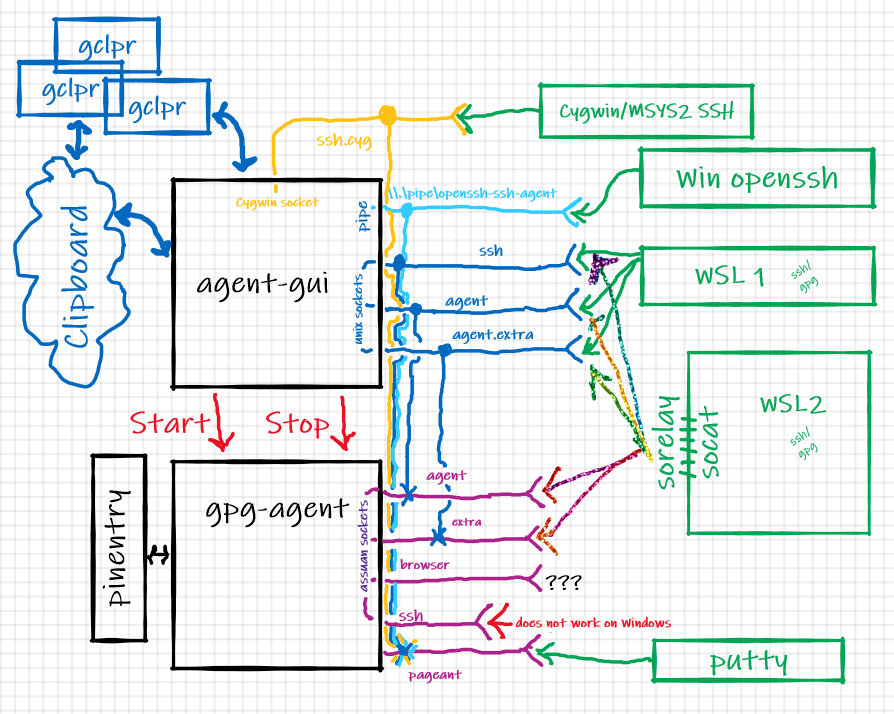
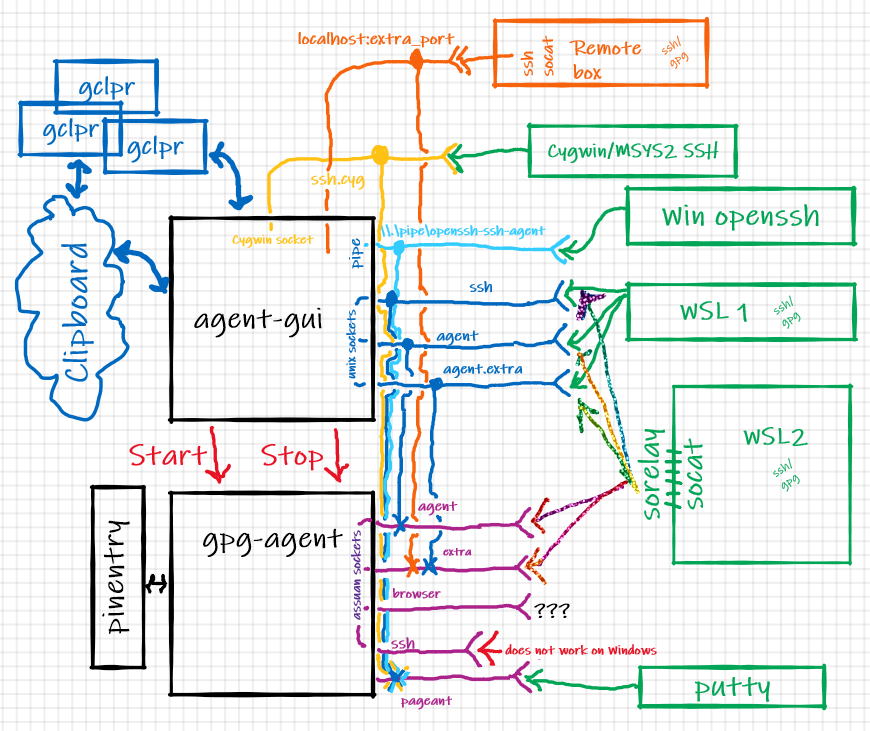
Adding extra_port to support gpg socket redirection from Windows

Changed region(s): [[0.0, 0.0, 0.9931, 0.986]]

diff --git a/agent/agent.go b/agent/agent.go
@@ -64,6 +64,10 @@ func NewAgent(cfg *config.Config) (*Agent, error) {
 	a.conns[ConnectorSockAgentSSH] = NewConnector(ConnectorSockAgentSSH, a.Cfg.GPG.Home, a.Cfg.GUI.Home, util.SocketAgentSSHName, locked, &a.wg)
 	a.conns[ConnectorPipeSSH] = NewConnector(ConnectorPipeSSH, "", "", a.Cfg.GUI.PipeName, locked, &a.wg)
 	a.conns[ConnectorSockAgentCygwinSSH] = NewConnector(ConnectorSockAgentCygwinSSH, "", a.Cfg.GUI.Home, util.SocketAgentSSHCygwinName, locked, &a.wg)
+	if a.Cfg.GUI.ExtraPort != 0 {
+		// Since OpenSSH-Win32 does not yet know how to redirect unix sockets we have no choice but to make available this additional port on local host only
+		a.conns[ConnectorExtraPort] = NewConnector(ConnectorExtraPort, a.Cfg.GPG.Home, fmt.Sprintf("localhost:%d", a.Cfg.GUI.ExtraPort), util.SocketAgentExtraName, locked, &a.wg)
+	}
 
 	util.WaitForFileDeparture(time.Second*5,
 		a.conns[ConnectorSockAgent].PathGPG(),
@@ -83,6 +87,9 @@ func (a *Agent) Status() string {
 	fmt.Fprintf(&buf, "\n\n---------------------------\nGnuPG version:\n---------------------------\n%s", a.Ver)
 	fmt.Fprintf(&buf, "\n\n---------------------------\ngpg-agent command line:\n---------------------------\n%s", a.cmd.String())
 	fmt.Fprintf(&buf, "\n\n---------------------------\ngpg-agent Assuan sockets directory:\n---------------------------\n%s", a.Cfg.GPG.Home)
+	if a.Cfg.GUI.ExtraPort != 0 {
+		fmt.Fprintf(&buf, "\n\n---------------------------\ngpg-agent Assuan extra socket on TCP:\n---------------------------\nlocalhost:%d", a.Cfg.GUI.ExtraPort)
+	}
 	fmt.Fprintf(&buf, "\n\n---------------------------\nagent-gui AF_UNIX and Cygwin sockets directory:\n---------------------------\n%s", a.Cfg.GUI.Home)
 	fmt.Fprintf(&buf, "\n\n---------------------------\nagent-gui SSH named pipe:\n---------------------------\n%s", a.Cfg.GUI.PipeName)
 

diff --git a/agent/connector.go b/agent/connector.go
@@ -35,6 +35,7 @@ const (
 	ConnectorSockAgentSSH
 	ConnectorPipeSSH
 	ConnectorSockAgentCygwinSSH
+	ConnectorExtraPort
 	maxConnector
 )
 
@@ -52,6 +53,8 @@ func (ct ConnectorType) String() string {
 		return "ssh-agent named pipe"
 	case ConnectorSockAgentCygwinSSH:
 		return "ssh-agent cygwin socket"
+	case ConnectorExtraPort:
+		return "gpg-agent extra socket on local port"
 	default:
 	}
 	return fmt.Sprintf("unknown connector type %d", ct)
@@ -125,6 +128,8 @@ func (c *Connector) Serve(deadline time.Duration) error {
 		return c.serveSSHPipe()
 	case ConnectorSockAgentCygwinSSH:
 		return c.serveSSHCygwinSocket()
+	case ConnectorExtraPort:
+		return c.serveExtraPortSocket(deadline)
 	default:
 	}
 	log.Printf("Connector for %s is not supported", c.index)
@@ -230,6 +235,37 @@ func (c *Connector) serveAssuanSocket(deadline time.Duration) error {
 			if err != nil {
 				if !util.IsNetClosing(err) {
 					log.Printf("Quiting - unable to serve on unix socket: %s", err.Error())
+				}
+				return
+			}
+			c.wg.Add(1)
+			go c.handleAssuanRequest(socketName, conn, deadline)
+		}
+	}()
+	return nil
+}
+
+func (c *Connector) serveExtraPortSocket(deadline time.Duration) error {
+
+	if c == nil || len(c.pathGPG) == 0 || len(c.pathGUI) == 0 {
+		return fmt.Errorf("gpg agent has not been initialized properly")
+	}
+
+	var err error
+
+	socketName := c.pathGUI
+	c.listener, err = net.Listen("tcp", socketName)
+	if err != nil {
+		return fmt.Errorf("could not open socket %s: %w", socketName, err)
+	}
+
+	go func() {
+		log.Printf("Serving %s on %s", c.index, socketName)
+		for {
+			conn, err := c.listener.Accept()
+			if err != nil {
+				if !util.IsNetClosing(err) {
+					log.Printf("Quiting - unable to serve on TCP socket: %s", err.Error())
 				}
 				return
 			}

diff --git a/cmd/agent/main.go b/cmd/agent/main.go
@@ -161,6 +161,14 @@ func run() error {
 	}
 	defer gpgAgent.Close(agent.ConnectorSockAgentSSH)
 
+	// Transact on local tcp ocket for gpg agent
+	if gpgAgent.Cfg.GUI.ExtraPort != 0 {
+		if err := gpgAgent.Serve(agent.ConnectorExtraPort); err != nil {
+			return err
+		}
+		defer gpgAgent.Close(agent.ConnectorExtraPort)
+	}
+
 	// Transact on AF_UNIX socket for gpg agent
 	if err := gpgAgent.Serve(agent.ConnectorSockAgent); err != nil {
 		return err
@@ -216,7 +224,7 @@ func clipServe(cfg *config.Config) {
 		}
 		if len(pkeys) > 0 {
 			// we have possible clients for remote clipboard
-			clipHelp = fmt.Sprintf("gclpr is serving %d key(s) on port %d", len(pkeys), cfg.GUI.Clp.Port)
+			clipHelp = fmt.Sprintf("---------------------------\ngclpr is serving %d key(s) on port %d", len(pkeys), cfg.GUI.Clp.Port)
 			go func() {
 				compatibleMagic := []byte{'g', 'c', 'l', 'p', 'r', 1, 1, 0}
 				if err := clip.Serve(clipCtx, cfg.GUI.Clp.Port, cfg.GUI.Clp.LE, pkeys, compatibleMagic); err != nil {

diff --git a/config/cfg.go b/config/cfg.go
@@ -40,6 +40,7 @@ type GUIConfig struct {
 	IgnoreSessionLock bool            `yaml:"ignore_session_lock,omitempty"`
 	SSH               string          `yaml:"openssh,omitempty"`
 	PipeName          string          `yaml:"pipe_name,omitempty"`
+	ExtraPort         int             `yaml:"extra_port,omitempty"`
 	Home              string          `yaml:"homedir,omitempty"`
 	Deadline          time.Duration   `yaml:"deadline,omitempty"`
 	PinDlg            util.DlgDetails `yaml:"pin_dialog,omitempty"`

diff --git a/README.md b/README.md
@@ -125,6 +125,7 @@ Full list of configuration keys:
 * `gui.debug` - turn on debug logging. Uses `OutputDebugStringW` - use Sysinternals [debugview](https://docs.microsoft.com/en-us/sysinternals/downloads/debugview) to see
 * `gui.setenv` - automatically prepare environment variables
 * `gui.openssh` - when value is `cygwin` set environment `SSH_AUTH_SOCK` on Windows side to point to Cygwin socket file rather then named pipe, so Cygwin and MSYS2 ssh build could be used instead of what comes with Windows 10.
+* `gui.extra_port` - Win32-OpenSSH does not know how to redirect unix sockets yet, so if you want to use windows native ssh to remote "S.gpg-agent.extra" specify some non-zero port here. Program will open this port on localhost and you can use socat on the other side to recreate domain socket. By default it is disabled.
 * `gui.ignore_session_lock` - continue to serve requests even if user session is locked
 * `gui.pipe_name` - full name of pipe for Windows OpenSSH
 * `gui.homedir` - directory to be used by agent-gui to create sockets in
@@ -327,6 +328,11 @@ Using SSH and Linux you could remote GnuPG extra socket as far as you want by ad
 ```
 RemoteForward /home/rupor/.gnupg/S.gpg-agent /home/rupor/.gnupg/S.gpg-agent.extra
 ```
+In case you prefer to use Win32-OpenSSH you will need to set `gui.extra_port` in configuration and RemoteForward it, using something like
+```
+socat UNIX-LISTEN:/run/user/1000/gnupg/S.gpg-agent,fork TCP4-CONNECT:127.0.0.1:$extra_port
+```
+on remote to recreate domain socket.
 
 Just follow [this guide](https://gist.github.com/TimJDFletcher/85fafd023c81aabfad57454111c1564d) - it will allow you to sign you git commits everywhere using single private key while keeping it in a single safe place (like smart card). You will still have to distribute and import public key in multiple places, which may be inconvenient but should be secure. You could [read a bit more](https://www.gnupg.org/gph/en/manual/x56.html#:~:text=To%20send%20your%20public%20key,identify%20the%20key%20to%20export.) on that.
 
